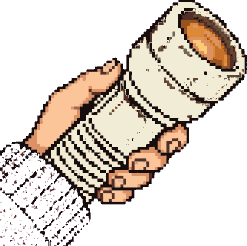
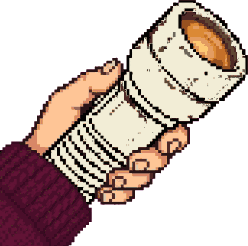
Give Mara her jumper back, and the torch the house's own light
The sleeve of her jumper was never in the sprite: the studio key
took the burgundy for studio pink, because burgundy is also more
red and blue than green, and what was left was a transparent mesh
that vanished in the dark. The key now asks whether the colour is
bright before it cuts, the wool is remapped onto the same burgundy
the rest of the house draws that sleeve in, and the palette is
built from the colours alone so nothing is dithered into nothing.

The torch is bigger now (320 px against 248) and sits so that the
hands, the fingers and the sleeve all stay inside the frame: as it
swings about her grip to follow the light, it is nudged back in
rather than swung off the edge.

The shine of the torch is the house's own: a run of widening discs
for the shaft and a hot, squashed pool where it lands, the same
beam the blackout rooms and the vent draw, instead of the thin
faint thread that was there before.

Changed region(s): [[0.0, 0.0, 1.0, 1.0]]

diff --git a/tools/build_hedge_art.py b/tools/build_hedge_art.py
@@ -31,7 +31,7 @@ import os
 import sys
 
 try:
-    from PIL import Image, ImageChops
+    from PIL import Image, ImageFilter, ImageChops
 except ImportError:  # pragma: no cover - convenience for contributors
     print("This script needs Pillow: pip install pillow", file=sys.stderr)
     raise
@@ -62,14 +62,46 @@ def load(name):
 
 
 def pixelate(im, block=BLOCK, colors=0, dither=None):
-    """Chunk an image down to `block`-sized pixels and quantise it."""
+    """Chunk an image down to `block`-sized pixels and quantise it.
+
+    The alpha is kept out of the quantisation. When the palette is
+    built from the RGBA image, the transparent ground competes with
+    the art for entries and a dark shape (the wool of Mara's sleeve)
+    gets dithered half into nothing. So the colours are quantised on
+    their own and the alpha is laid back on top, untouched.
+    """
     w, h = im.size
     small = im.resize((max(1, w // block), max(1, h // block)), Image.BOX)
     if colors:
         if dither is None:
             dither = Image.Dither.NONE
-        method = Image.Quantize.FASTOCTREE if small.mode == "RGBA" else Image.Quantize.MEDIANCUT
-        small = small.quantize(colors=colors, method=method, dither=dither).convert("RGBA")
+        if small.mode == "RGBA":
+            alpha = small.getchannel("A")
+            solid = small.convert("RGB")
+            # the cut-out ground would otherwise pull the palette
+            # towards black; stand in the art's own mid tone for it
+            opaque = [
+                solid.getpixel((x, y))
+                for y in range(0, solid.size[1], 3)
+                for x in range(0, solid.size[0], 3)
+                if alpha.getpixel((x, y)) > 200
+            ]
+            if opaque:
+                mid = tuple(sum(c[i] for c in opaque) // len(opaque) for i in range(3))
+                for y in range(solid.size[1]):
+                    for x in range(solid.size[0]):
+                        if alpha.getpixel((x, y)) < 40:
+                            solid.putpixel((x, y), mid)
+            quantised = solid.quantize(
+                colors=colors, method=Image.Quantize.FASTOCTREE, dither=dither
+            ).convert("RGB")
+            out = quantised.convert("RGBA")
+            out.putalpha(alpha)
+            small = out
+        else:
+            small = small.quantize(
+                colors=colors, method=Image.Quantize.FASTOCTREE, dither=dither
+            ).convert("RGBA")
     return small
 
 
@@ -120,6 +152,11 @@ def chroma_key_magenta(im):
     "how much more red and blue than green" instead of a distance to
     one flat colour. Anything that still smells of magenta after the
     cut is dropped as well, which keeps the black outline clean.
+
+    The one thing that is *not* the background is the wool of Mara's
+    sleeve: it is a deep burgundy, and burgundy is also "more red and
+    blue than green". So the cut also asks whether the colour is
+    bright: the studio pink is, the wool is not.
     """
     px = im.load()
     w, h = im.size
@@ -130,9 +167,14 @@ def chroma_key_magenta(im):
         r, g, b = c[:3]
         return min(r, b) - g
 
+    def is_background(c):
+        return min(c[0], c[2]) >= 96
+
     for y in range(h):
         for x in range(w):
             r, g, b, a = px[x, y]
+            if not is_background((r, g, b)):
+                continue  # dark burgundy wool, not the studio pink
             amount = magenta_amount((r, g, b))
             if amount >= 70:
                 op[x, y] = (0, 0, 0, 0)
@@ -149,10 +191,132 @@ def chroma_key_magenta(im):
             r, g, b, a = op[x, y]
             if a == 0:
                 continue
-            if magenta_amount((r, g, b)) >= 20:
+            if is_background((r, g, b)) and magenta_amount((r, g, b)) >= 20:
                 op[x, y] = (0, 0, 0, 0)
 
     return out
+
+
+def recolour_knit(im):
+    """Mara's jumper is the house's burgundy.
+
+    The source painting has the sleeve in a dull near-black brown,
+    which disappears against a night hedge. The rest of the house
+    draws that same sleeve in a deep wine red (see the held hand in
+    assets/images/core/hand_palm.png), so the knit here is remapped
+    onto the same ramp: the hands stay skin, the cloth stays cloth,
+    the black outline stays black, and the wool becomes the house's
+    burgundy.
+    """
+    px = im.load()
+    w, h = im.size
+    for y in range(int(h * 0.5), h):
+        for x in range(int(w * 0.5)):
+            r, g, b, a = px[x, y]
+            if a < 40:
+                continue
+            if r < 8:
+                continue  # the black outline
+            if r > 190 or g > 190:
+                continue  # skin and cloth
+            if g > r * 0.35:
+                continue  # skin, cloth and stone are not the wool
+            if b > r + 6:
+                continue  # not a red
+            luma = 0.3 * r + 0.6 * g + 0.1 * b
+            k = max(0.0, min(1.0, luma / 70.0))
+            px[x, y] = (
+                int(44 + 74 * k),
+                int(8 + 16 * k),
+                int(28 + 36 * k),
+                a,
+            )
+    return im
+
+
+def knit_solid(im):
+    """The wool of Mara's sleeve is dithered in the painting.
+
+    Half of that dither is magenta and the key takes it away, so the
+    sleeve comes out as confetti and disappears in the dark. The
+    shape is what matters: the knit is closed up (grown a little, then
+    cut back to its own size) and filled with the house's burgundy.
+    """
+    px = im.load()
+    w, h = im.size
+    mask = Image.new("L", (w, h), 0)
+    mp = mask.load()
+    for y in range(int(h * 0.5), h):
+        for x in range(int(w * 0.5)):
+            r, g, b, a = px[x, y]
+            if a < 200 or r < 4 or r > 190:
+                continue
+            if g > r * 0.7 or b > r + 8:
+                continue
+            mp[x, y] = 255
+
+    mask = mask.filter(ImageFilter.MaxFilter(5)).filter(ImageFilter.MinFilter(5))
+    mp = mask.load()
+    for y in range(int(h * 0.5), h):
+        for x in range(int(w * 0.5)):
+            if mp[x, y] and px[x, y][3] < 255:
+                px[x, y] = (60, 12, 36, 255)
+    return im
+
+
+def fill_pinholes(im):
+    """Dithered shapes leave pinholes behind the key.
+
+    The source painting draws the wool of Mara's sleeve as a dithered
+    shape, so half of it keys away to nothing and the sleeve ends up a
+    transparent mesh that vanishes in the dark. Any transparent pixel
+    that cannot be reached from the edge of the picture is a hole
+    *inside* the art, so it is filled with the colour of the art
+    around it.
+    """
+    px = im.load()
+    w, h = im.size
+    seen = bytearray(w * h)
+
+    def push(x, y):
+        idx = y * w + x
+        if not seen[idx] and px[x, y][3] == 0:
+            seen[idx] = 1
+            stack.append((x, y))
+
+    stack = []
+    for x in range(w):
+        push(x, 0)
+        push(x, h - 1)
+    for y in range(h):
+        push(0, y)
+        push(w - 1, y)
+    while stack:
+        x, y = stack.pop()
+        for dx, dy in ((1, 0), (-1, 0), (0, 1), (0, -1)):
+            nx, ny = x + dx, y + dy
+            if 0 <= nx < w and 0 <= ny < h:
+                push(nx, ny)
+
+    for y in range(h):
+        for x in range(w):
+            if px[x, y][3] != 0 or seen[y * w + x]:
+                continue
+            fill = None
+            for r in range(1, 7):
+                for dx in range(-r, r + 1):
+                    for dy in (-r, r):
+                        nx, ny = x + dx, y + dy
+                        if 0 <= nx < w and 0 <= ny < h and px[nx, ny][3] > 200:
+                            fill = px[nx, ny]
+                            break
+                    if fill:
+                        break
+                if fill:
+                    break
+            if fill:
+                px[x, y] = (fill[0], fill[1], fill[2], 255)
+    return im
 
 
 def measure_anchors(im):
@@ -167,7 +331,7 @@ def measure_anchors(im):
                 continue
             # the ember: the one strongly saturated orange in the art,
             # not the warm skin or the copper band around the head.
-            if r > 170 and g < 175 and b < 100 and (r - b) > 110:
+            if r > 190 and g < 165 and b < 85 and (r - b) > 140:
                 lens_x += x
                 lens_y += y
                 lens_n += 1
@@ -184,7 +348,7 @@ def measure_anchors(im):
             r, g, b, a = px[x, y]
             if a < 128:
                 continue
-            if r > 200 and 140 < g < 210 and 110 < b < 190 and (r - g) > 35 and (g - b) > 25:
+            if r > 195 and 130 < g < 215 and 85 < b < 200 and (r - g) > 30 and (g - b) > 25:
                 grip_x += x
                 grip_y += y
                 grip_n += 1
@@ -206,6 +370,9 @@ def main():
     hands = load("hands")
     hands = chroma_key_magenta(hands)
     hands = hands.crop(hands.getbbox())
+    hands = fill_pinholes(hands)
+    hands = knit_solid(hands)
+    hands = recolour_knit(hands)
     hands = pixelate(hands, block=4, colors=32)
     save(hands, os.path.join(CORE_DIR, "hand_flashlight.png"))
 

diff --git a/scripts/world/room6/HedgeMaze.cs b/scripts/world/room6/HedgeMaze.cs
@@ -139,12 +139,15 @@ public partial class HedgeMaze : Node2D
     // and swung about her grip to follow the circle of light. The
     // ember of the torch and the place her hands hold it are fixed
     // points inside that sprite (measured by tools/build_hedge_art.py).
-    private const float TorchSpriteWidth = 248f;
-    private const float TorchRestX = 176f;
-    private const float TorchRestY = 596f;
-    private const float TorchRiseDistance = 330f;
-    private static readonly Vector2 TorchSpriteGrip = new(0.4133f, 0.4941f);
-    private static readonly Vector2 TorchSpriteLens = new(0.8382f, 0.1679f);
+    // It is drawn as big as the house draws its held hand elsewhere,
+    // and it sits wholly on the screen: the hands, the fingers and
+    // the sleeve of her jumper all stay in frame.
+    private const float TorchSpriteWidth = 320f;
+    private const float TorchRestX = 215f;
+    private const float TorchRestY = 450f;
+    private const float TorchRiseDistance = 430f;
+    private static readonly Vector2 TorchSpriteGrip = new(0.4349f, 0.4884f);
+    private static readonly Vector2 TorchSpriteLens = new(0.8368f, 0.1681f);
     private const float TorchMinRotation = -1.6f;
     private const float TorchMaxRotation = 0.85f;
 
@@ -1661,8 +1664,51 @@ public partial class HedgeMaze : Node2D
         offset.Y += _landDip * _landDip * 16f;
         offset.Y += _handRise * TorchRiseDistance;
 
-        grip = new Vector2(TorchRestX, TorchRestY) + offset;
         torchAngle = _torchRotation;
+        Vector2 rest = new Vector2(TorchRestX, TorchRestY) + offset;
+
+        // The torch swings about her grip to follow the light, and a
+        // swing can throw a hand off the edge of the screen. When she
+        // is holding the torch out (not putting it away), the whole
+        // sprite — the hands, the fingers and the sleeve of her
+        // jumper — is nudged back inside the frame.
+        if (_handRise < 0.01f)
+        {
+            float width = TorchSpriteWidth;
+            float height = _torchSpriteHeight;
+            Vector2 pivot = new(TorchSpriteGrip.X * width, TorchSpriteGrip.Y * height);
+            Vector2[] corners =
+            {
+                Vector2.Zero,
+                new Vector2(width, 0f),
+                new Vector2(width, height),
+                new Vector2(0f, height),
+            };
+            float minX = float.MaxValue;
+            float maxX = float.MinValue;
+            float minY = float.MaxValue;
+            float maxY = float.MinValue;
+            foreach (Vector2 corner in corners)
+            {
+                Vector2 turned = (corner - pivot).Rotated(torchAngle);
+                minX = Mathf.Min(minX, turned.X);
+                maxX = Mathf.Max(maxX, turned.X);
+                minY = Mathf.Min(minY, turned.Y);
+                maxY = Mathf.Max(maxY, turned.Y);
+            }
+
+            const float margin = 6f;
+            if (rest.X + minX < margin)
+                rest.X = margin - minX;
+            else if (rest.X + maxX > ScreenWidth - margin)
+                rest.X = ScreenWidth - margin - maxX;
+            if (rest.Y + minY < margin)
+                rest.Y = margin - minY;
+            else if (rest.Y + maxY > ScreenHeight - margin)
+                rest.Y = ScreenHeight - margin - maxY;
+        }
+
+        grip = rest;
         lens = grip + TorchLensOffset.Rotated(torchAngle);
     }
 
@@ -1676,21 +1722,26 @@ public partial class HedgeMaze : Node2D
 
     /// <summary>GameUI's held-item light rule: the hand is only as
     /// bright as the torch light actually landing near it, with a
-    /// little back-spill because this time the torch is in it.</summary>
+    /// little back-spill because this time the torch is in it. The
+    /// back-spill is generous: this is a *lit* torch, and the wool of
+    /// her sleeve has to be there to be seen at all.</summary>
     private float HandLightLevel(Vector2 grip)
     {
         if (!_flashlightOn)
-            return 0.2f;
+            return 0.34f;
         float distance = _beamPosition.DistanceTo(grip);
         float falloff = 1f - Mathf.Clamp((distance - 110f) / 330f, 0f, 1f);
-        return Mathf.Clamp((0.46f + 0.54f * falloff) * BeamFlicker(), 0f, 1f);
+        return Mathf.Clamp((0.72f + 0.28f * falloff) * BeamFlicker(), 0f, 1f);
     }
 
     private static Color TorchTint(float level) =>
         new(level, level * 0.96f, level * 0.84f, 1f);
 
-    /// <summary>The faint shaft of the held-torch beam, from the lens
-    /// in her hand to the circle on the hedges.</summary>
+    /// <summary>The light itself, thrown from the ember in her hand
+    /// to the circle she has put on the hedges. It is the same cone
+    /// the other dark rooms draw — a run of widening discs for the
+    /// shaft and a hot pool where it lands — so the torch here
+    /// behaves like the torch everywhere else in the house.</summary>
     private void DrawBeamShaft()
     {
         if (!_hasFlashlight || !_flashlightOn || _handRise >= 0.995f)
@@ -1699,15 +1750,33 @@ public partial class HedgeMaze : Node2D
         GetHandPose(out _, out _, out Vector2 lens);
         float strength = BeamFlicker() * (1f - _handRise);
         var warm = new Color(1f, 0.88f, 0.6f);
-        const int discs = 18;
+
+        // The shaft: the house's own run of widening discs, thinning
+        // as the light travels from her hand to the far wall.
+        const int discs = 40;
         for (int i = 1; i <= discs; i++)
         {
             float t = i / (float)discs;
             Vector2 position = lens.Lerp(_beamPosition, t);
-            float radius = Mathf.Lerp(6f, 66f, t * t * (3f - 2f * t));
-            float alpha = Mathf.Lerp(0.1f, 0.022f, t) * strength;
+            float radius = Mathf.Lerp(7f, 118f, t * t * (3f - 2f * t));
+            float alpha = Mathf.Lerp(0.13f, 0.035f, t) * strength;
             DrawCircle(position, radius, new Color(warm.R, warm.G, warm.B, alpha));
         }
+
+        // The pool it lands in: a stepped, slightly squashed pool of
+        // light, hottest at the middle, the way his big torch burned
+        // through every bulb they owned. It sits inside the circle of
+        // light, so the chunky dark around it stays chunky.
+        DrawSetTransform(_beamPosition, 0f, new Vector2(1f, 0.74f));
+        DrawCircle(Vector2.Zero, 138f, new Color(warm.R, warm.G, warm.B, 0.08f * strength));
+        DrawCircle(Vector2.Zero, 100f, new Color(warm.R, warm.G, warm.B, 0.10f * strength));
+        DrawCircle(Vector2.Zero, 64f, new Color(warm.R, warm.G, warm.B, 0.12f * strength));
+        DrawCircle(Vector2.Zero, 34f, new Color(1f, 0.93f, 0.72f, 0.16f * strength));
+        DrawSetTransform(Vector2.Zero, 0f, Vector2.One);
+
+        // The lamp itself, glinting in her hand.
+        DrawCircle(lens, 17f, new Color(1f, 0.94f, 0.74f, 0.4f * strength));
+        DrawCircle(lens, 8f, new Color(1f, 0.98f, 0.86f, 0.6f * strength));
     }
 
     /// <summary>Her hands round Father's torch: one sprite of its own,
